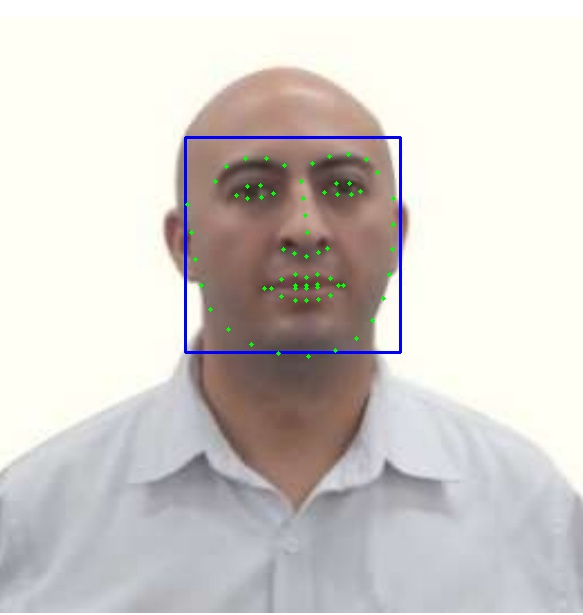
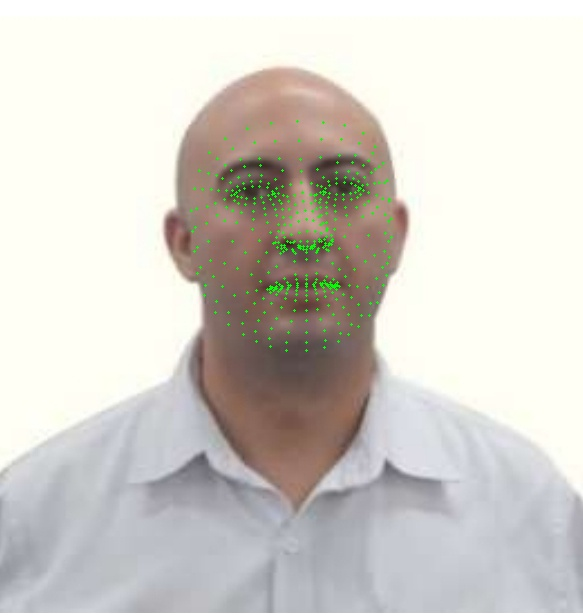
feat: Migración a MediaPipe para detección de 468 puntos faciales

Changed region(s): [[0.3087, 0.2163, 0.7101, 0.587], [0.6175, 0.4943, 0.6484, 0.5252]]

diff --git a/models/face_processor.py b/models/face_processor.py
@@ -1,46 +1,37 @@
 import cv2
-import dlib
+import mediapipe as mp
 import numpy as np
 
 class FaceProcessor:
     """
-    Clase para procesar imágenes, detectando puntos faciales y
-    aplicando la triangulación de Delaunay.
+    Clase para procesar imágenes, detectando 468 puntos faciales con MediaPipe
+    y aplicando la triangulación de Delaunay.
     """
     def __init__(self):
-        # Inicializa el detector de rostros de dlib
-        self.detector = dlib.get_frontal_face_detector()
-        # Carga el predictor de puntos faciales
-        self.predictor = dlib.shape_predictor("models/data/shape_predictor_68_face_landmarks.dat")
+        # Inicializa la clase de Face Mesh de MediaPipe
+        self.mp_face_mesh = mp.solutions.face_mesh
+        self.face_mesh = self.mp_face_mesh.FaceMesh(static_image_mode=True, max_num_faces=1, min_detection_confidence=0.5)
 
     def detect_face_landmarks(self, image):
         """
-        Detecta el rostro y los 68 puntos faciales en una imagen.
-        Retorna la imagen con los puntos dibujados y el contorno del rostro.
+        Detecta los 468 puntos faciales en una imagen usando MediaPipe.
+        Retorna la imagen con los puntos dibujados.
         """
-        gray = cv2.cvtColor(image, cv2.COLOR_BGR2GRAY)
-        faces = self.detector(gray)
+        # Convertir la imagen a RGB, que es el formato que usa MediaPipe
+        rgb_image = cv2.cvtColor(image, cv2.COLOR_BGR2RGB)
+        results = self.face_mesh.process(rgb_image)
 
-        if not faces:
-            return image, None, "No se detectaron rostros."
-
-        for face in faces:
-            # Dibuja el contorno del rostro
-            x1, y1, x2, y2 = face.left(), face.top(), face.right(), face.bottom()
-            cv2.rectangle(image, (x1, y1), (x2, y2), (255, 0, 0), 2)
-
-            # Obtiene los 68 puntos faciales
-            landmarks = self.predictor(gray, face)
-            points = []
-            for n in range(0, 68):
-                x = landmarks.part(n).x
-                y = landmarks.part(n).y
-                points.append((x, y))
-                # Dibuja un círculo en cada punto
-                cv2.circle(image, (x, y), 2, (0, 255, 0), -1)
-
-            return image, points, None
-
+        landmarks_points = []
+        if results.multi_face_landmarks:
+            for face_landmarks in results.multi_face_landmarks:
+                for idx, landmark in enumerate(face_landmarks.landmark):
+                    h, w, c = image.shape
+                    cx, cy = int(landmark.x * w), int(landmark.y * h)
+                    landmarks_points.append((cx, cy))
+                    # Dibuja un círculo en cada punto
+                    cv2.circle(image, (cx, cy), 1, (0, 255, 0), -1)
+            return image, landmarks_points, None
+        
         return image, None, "No se detectaron rostros."
 
     def draw_delaunay_triangles(self, image, points):
@@ -52,6 +43,9 @@ class FaceProcessor:
 
         # Convierte los puntos a un formato compatible con OpenCV
         points_np = np.array(points)
+        
+        # Crea una copia de la imagen para dibujar los triángulos
+        triangulated_image = image.copy()
         
         # Obtiene el rectángulo delimitador de los puntos
         rect = cv2.boundingRect(points_np)
@@ -69,8 +63,8 @@ class FaceProcessor:
             pt1 = (int(t[0]), int(t[1]))
             pt2 = (int(t[2]), int(t[3]))
             pt3 = (int(t[4]), int(t[5]))
-            cv2.line(image, pt1, pt2, (255, 255, 255), 1)
-            cv2.line(image, pt2, pt3, (255, 255, 255), 1)
-            cv2.line(image, pt3, pt1, (255, 255, 255), 1)
+            cv2.line(triangulated_image, pt1, pt2, (255, 255, 255), 1)
+            cv2.line(triangulated_image, pt2, pt3, (255, 255, 255), 1)
+            cv2.line(triangulated_image, pt3, pt1, (255, 255, 255), 1)
 
-        return image, None
+        return triangulated_image, None

diff --git a/app.py b/app.py
@@ -42,7 +42,7 @@ def upload_image():
         return jsonify({
             'success': True,
             'original_image_url': f'/uploaded_images/{filename}',
-            'message': 'Imagen subida correctamente. Use los botones para procesar.'
+            'message': 'Imagen subida correctamente. Usa los botones para procesar.'
         })
 
 @app.route('/detect_points', methods=['POST'])
@@ -55,7 +55,7 @@ def detect_points():
     if image is None:
         return jsonify({'error': 'No se pudo cargar la imagen'}), 500
     
-    # Procesar la imagen con la clase FaceProcessor (Modelo)
+    # Procesar la imagen con la clase FaceProcessor (ahora con MediaPipe)
     processed_image, _, error = processor.detect_face_landmarks(image.copy())
 
     if error:
@@ -65,7 +65,6 @@ def detect_points():
     temp_path = os.path.join(app.config['UPLOAD_FOLDER'], 'detected_' + filename)
     cv2.imwrite(temp_path, processed_image)
 
-    # Actualizar la ruta global para que apunte a la imagen procesada
     last_image_path = temp_path
 
     return jsonify({
@@ -98,7 +97,6 @@ def triangulate_delaunay():
     temp_path = os.path.join(app.config['UPLOAD_FOLDER'], 'triangulated_' + filename)
     cv2.imwrite(temp_path, triangulated_image)
     
-    # Actualizar la ruta global para que apunte a la imagen triangulada
     last_image_path = temp_path
 
     return jsonify({
